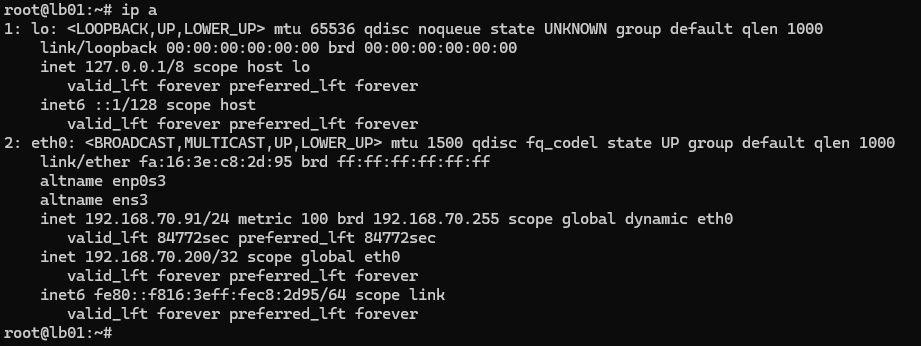
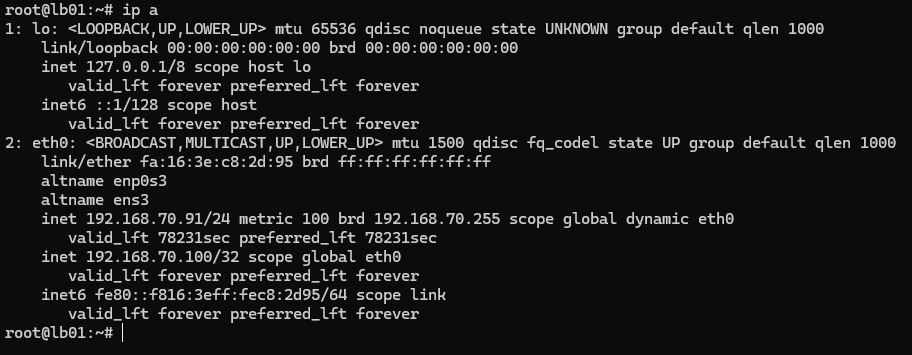
update config keepalived

Changed region(s): [[0.0, 0.0, 0.9825, 0.9827]]

diff --git a/apache/README.md b/apache/README.md
@@ -146,7 +146,7 @@ Phân hoạch IP:
 lb01 = 192.168.70.91
 lb02 = 192.168.70.92
 
-VIP = 192.168.70.200
+VIP = 192.168.70.100
 ```
 
 Để cho phép HAProxy ràng buộc vào các địa chỉ IP được chia sẻ, chúng ta thêm dòng sau vào `/etc/sysctl.conf`:
@@ -181,7 +181,7 @@ vrrp_instance VI_1 {
     }
 
     virtual_ipaddress {
-        192.168.70.200
+        192.168.70.100
     }
 
     track_script {
@@ -227,7 +227,7 @@ vrrp_instance VI_1 {
     }
 
     virtual_ipaddress {
-        192.168.70.200
+        192.168.70.100
     }
 
     track_script {
@@ -240,3 +240,26 @@ Kiểm tra xem trên node MASTER đã có VIP chưa:
 
 ![alt text](../images/apache_03.png)
 
+## III. Kiểm tra
+
+### 3.0 Truy cập thử vào VIP trên browser 
+
+![alt text](../images/apache_05.png)
+
+### 3.1 Test failover 
+
+**Bước 1:** Giả sử LB01: `192.168.70.91` down bằng cách tắt nó 
+
+```bash
+sudo poweroff
+```
+
+**Bước 2:** Kiểm tra trên LB02: `192.168.70.92` xem có VIP không ? 
+
+![alt text](../images/apache_06.png)
+
+**Bước 3:** Thử truy cập trên browser: 
+
+![alt text](../images/apache_07.png)
+
+> Ta thấy: Trang web vẫn hoạt động bình thưởng kể cả khi node LB01 đã chết do đó nó đảm bảo tính HA 
